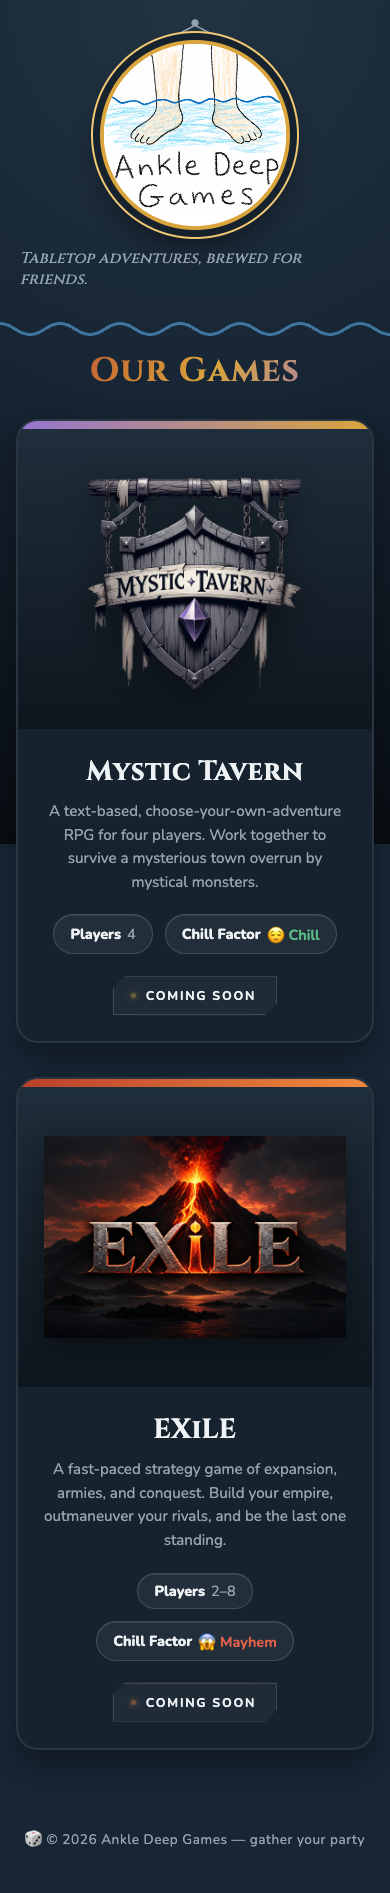
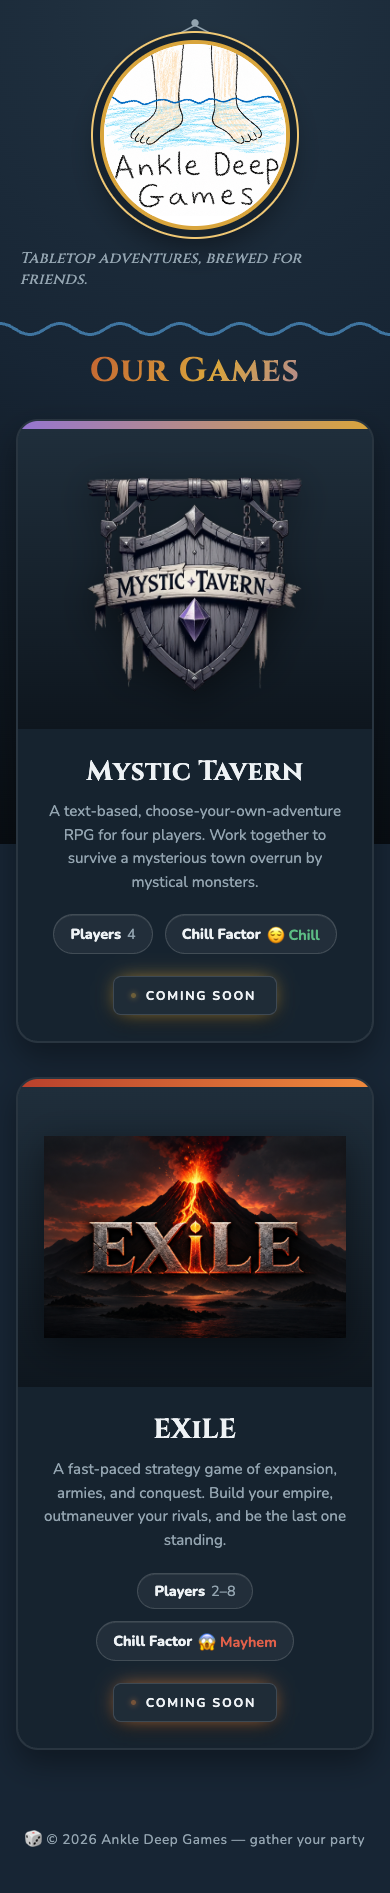
Fix broken corners on the Coming Soon chip
The notched clip-path cut the box on a diagonal, but the border only
ever draws along the box's original straight edges, so each notch
showed as an unbordered gap. Swapped to a plain rounded rect.

diff --git a/style.css b/style.css
@@ -303,10 +303,7 @@ h1 {
   backdrop-filter: blur(8px);
   -webkit-backdrop-filter: blur(8px);
   border: 1px solid rgb(255 255 255 / 14%);
-  clip-path: polygon(
-    12px 0, 100% 0, 100% calc(100% - 12px),
-    calc(100% - 12px) 100%, 0 100%, 0 12px
-  );
+  border-radius: 8px;
 
   font-family: "Nunito", sans-serif;
   font-size: 0.78rem;
